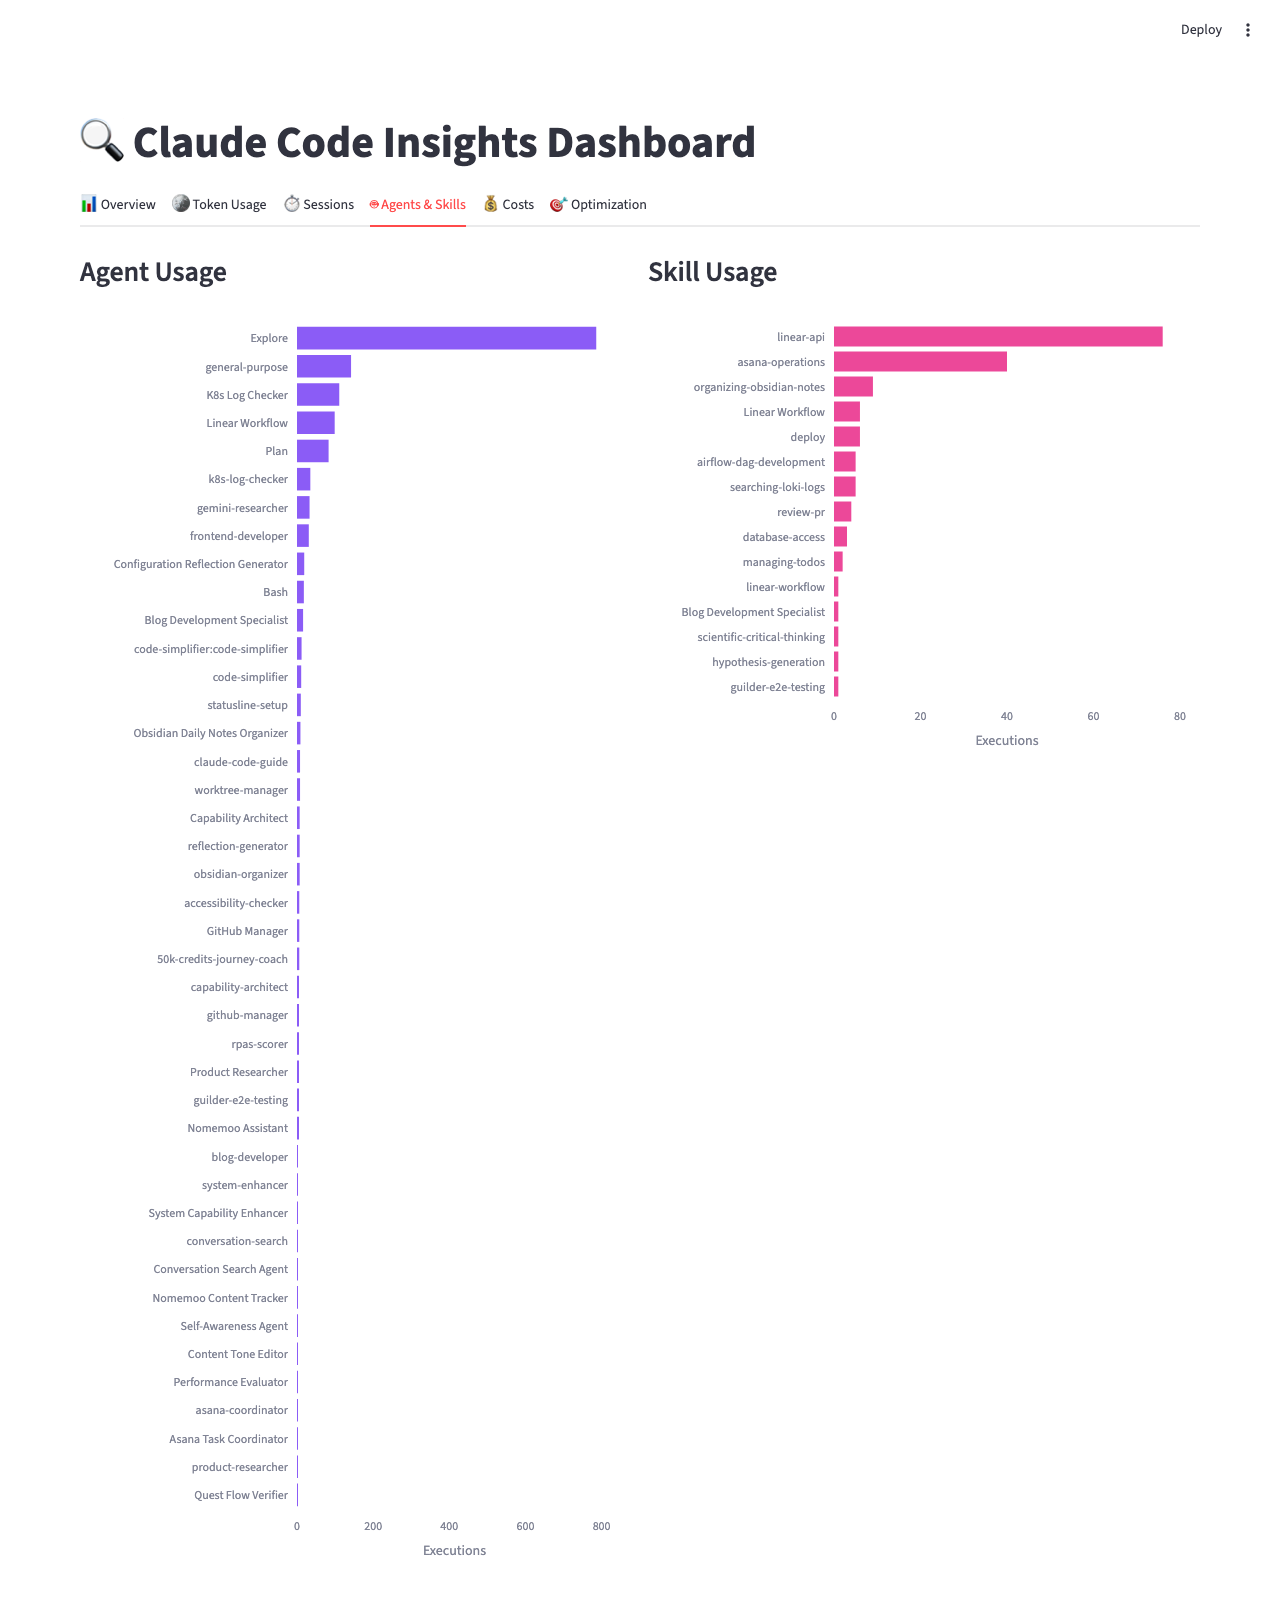
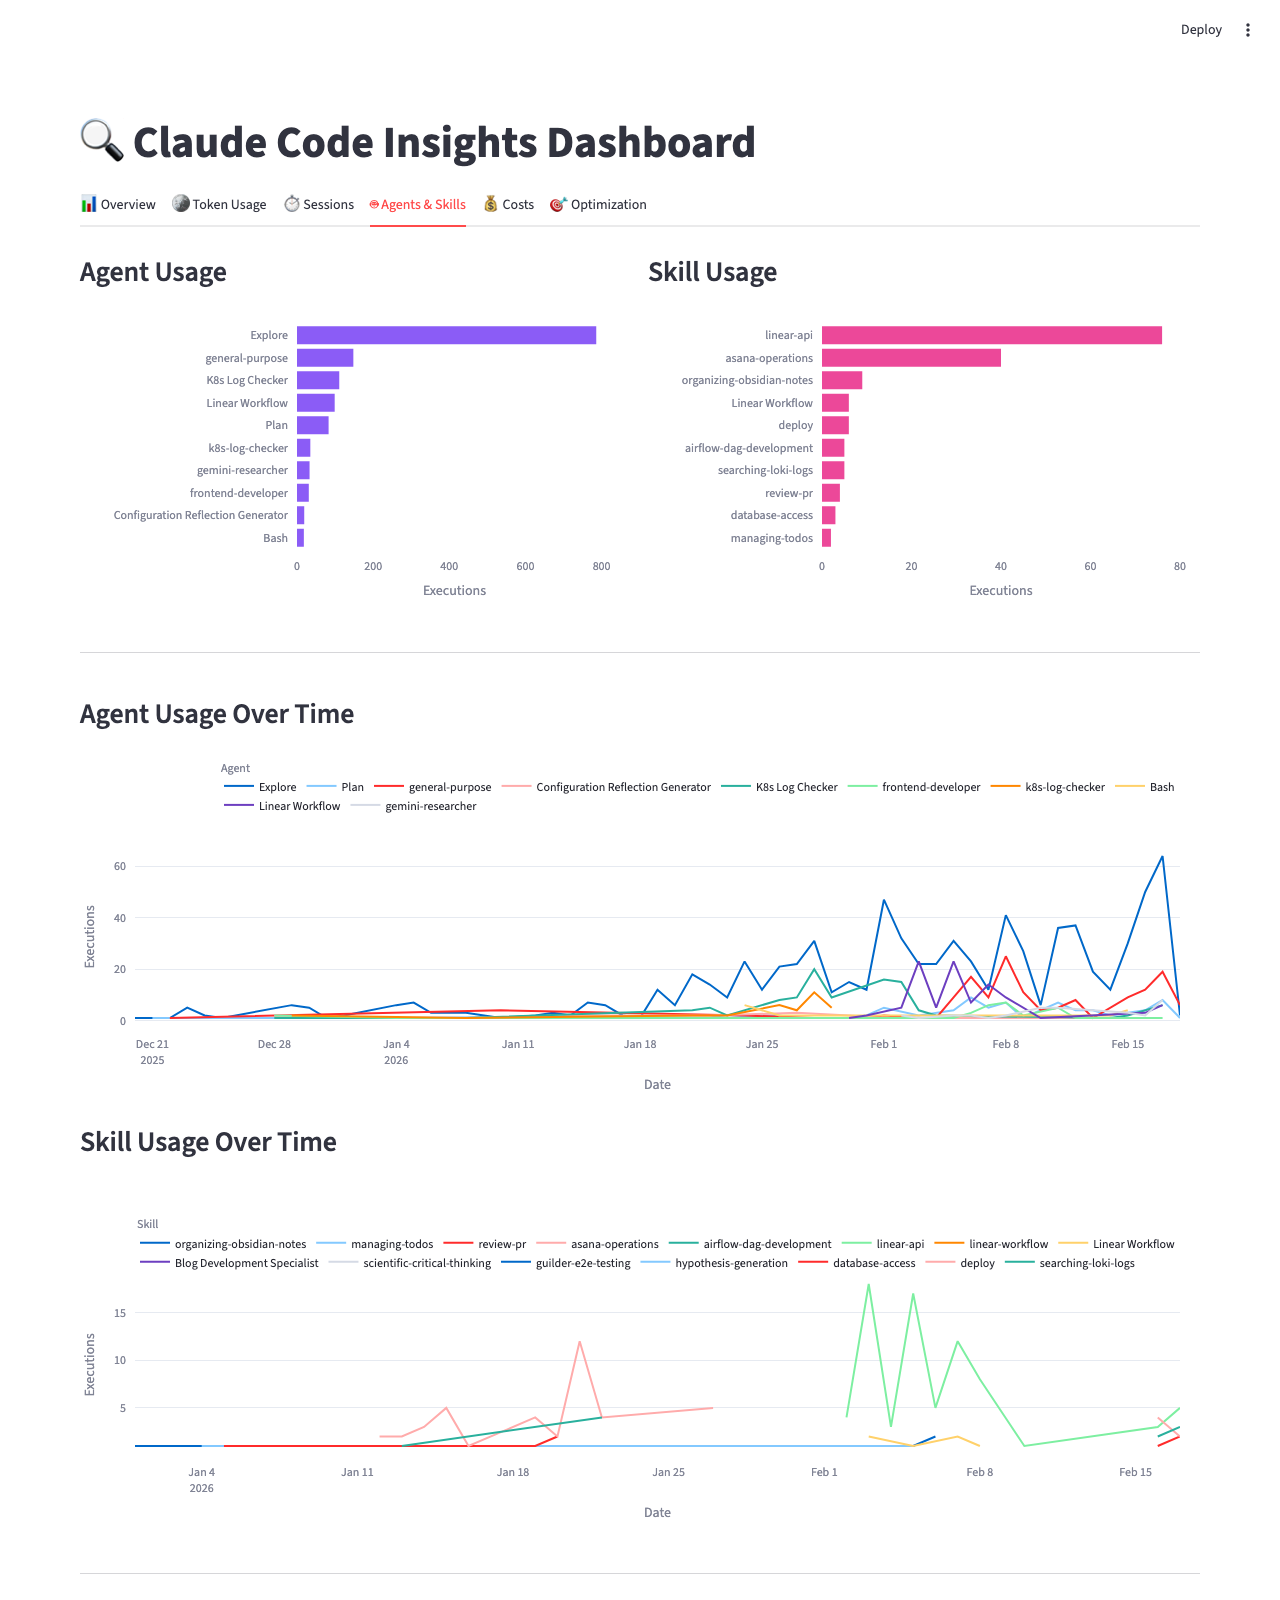
fix: Limit agents & skills charts to top 10 items
Show only the top 10 most-used agents and skills in the bar charts
instead of the full list. Retake screenshot.

diff --git a/src/claude_insights/dashboard/layouts/agents_skills.py b/src/claude_insights/dashboard/layouts/agents_skills.py
@@ -1,12 +1,14 @@
-"""Agents & Skills tab: usage frequency, trends over time."""
+"""Agents & Skills tab: usage frequency, trends over time, unmapped components."""
 
 from __future__ import annotations
+
+from collections import defaultdict
 
 import streamlit as st
 import plotly.express as px
 import pandas as pd
 
-from claude_insights.models.schemas import AgentExecution, SkillExecution
+from claude_insights.models.schemas import AgentExecution, AgentInfo, SkillExecution, SkillInfo
 from claude_insights.analytics.aggregators.usage_aggregator import (
     agent_usage_counts,
     skill_usage_counts,
@@ -15,25 +17,35 @@ from claude_insights.analytics.aggregators.usage_aggregator import (
 )
 
 
-def render(agent_execs: list[AgentExecution], skill_execs: list[SkillExecution]):
+def render(
+    agent_execs: list[AgentExecution],
+    skill_execs: list[SkillExecution],
+    agent_definitions: list[AgentInfo] | None = None,
+    skill_definitions: list[SkillInfo] | None = None,
+):
     """Render the agents & skills tab."""
     col_a, col_s = st.columns(2)
 
+    agent_counts = agent_usage_counts(agent_execs)
+    skill_counts_map = skill_usage_counts(skill_execs)
+
+    TOP_N = 10
+
     # Agent section
     with col_a:
-        st.subheader("🤖 Agent Usage")
-        counts = agent_usage_counts(agent_execs)
-        if counts:
+        st.subheader("Agent Usage")
+        if agent_counts:
+            top_agents = dict(list(agent_counts.items())[:TOP_N])
             df = pd.DataFrame(
-                {"agent": list(counts.keys()), "executions": list(counts.values())}
+                {"agent": list(top_agents.keys()), "executions": list(top_agents.values())}
             )
             fig = px.bar(
                 df, x="executions", y="agent", orientation="h",
                 color_discrete_sequence=["#8b5cf6"],
             )
             fig.update_layout(
-                height=max(200, len(counts) * 30),
-                margin=dict(l=0, r=0, t=10, b=0),
+                height=max(200, len(top_agents) * 30),
+                margin=dict(l=20, r=20, t=20, b=0),
                 yaxis={"categoryorder": "total ascending"},
                 xaxis_title="Executions", yaxis_title="",
             )
@@ -43,19 +55,19 @@ def render(agent_execs: list[AgentExecution], skill_execs: list[SkillExecution])
 
     # Skill section
     with col_s:
-        st.subheader("⚡ Skill Usage")
-        counts = skill_usage_counts(skill_execs)
-        if counts:
+        st.subheader("Skill Usage")
+        if skill_counts_map:
+            top_skills = dict(list(skill_counts_map.items())[:TOP_N])
             df = pd.DataFrame(
-                {"skill": list(counts.keys()), "executions": list(counts.values())}
+                {"skill": list(top_skills.keys()), "executions": list(top_skills.values())}
             )
             fig = px.bar(
                 df, x="executions", y="skill", orientation="h",
                 color_discrete_sequence=["#ec4899"],
             )
             fig.update_layout(
-                height=max(200, len(counts) * 30),
-                margin=dict(l=0, r=0, t=10, b=0),
+                height=max(200, len(top_skills) * 30),
+                margin=dict(l=20, r=20, t=20, b=0),
                 yaxis={"categoryorder": "total ascending"},
                 xaxis_title="Executions", yaxis_title="",
             )
@@ -78,8 +90,8 @@ def render(agent_execs: list[AgentExecution], skill_execs: list[SkillExecution])
                 labels={"date": "Date", "count": "Executions", "agent": "Agent"},
             )
             fig.update_layout(
-                height=350, margin=dict(l=0, r=0, t=10, b=0),
-                legend=dict(orientation="h", yanchor="bottom", y=1.02, xanchor="right", x=1),
+                height=350, margin=dict(l=20, r=20, t=100, b=0),
+                legend=dict(orientation="h", yanchor="bottom", y=1.15, xanchor="right", x=1),
             )
             st.plotly_chart(fig, use_container_width=True)
 
@@ -91,7 +103,140 @@ def render(agent_execs: list[AgentExecution], skill_execs: list[SkillExecution])
             labels={"date": "Date", "count": "Executions", "skill": "Skill"},
         )
         fig.update_layout(
-            height=350, margin=dict(l=0, r=0, t=10, b=0),
-            legend=dict(orientation="h", yanchor="bottom", y=1.02, xanchor="right", x=1),
+            height=350, margin=dict(l=20, r=20, t=100, b=0),
+            legend=dict(orientation="h", yanchor="bottom", y=1.15, xanchor="right", x=1),
         )
         st.plotly_chart(fig, use_container_width=True)
+
+    # Unmapped agents/skills sections
+    st.divider()
+    _render_unmapped_agents(agent_execs, agent_definitions or [])
+    _render_unmapped_skills(skill_execs, skill_definitions or [])
+
+
+def _render_unmapped_agents(
+    agent_execs: list[AgentExecution],
+    agent_definitions: list[AgentInfo],
+):
+    """Show agents found in logs but not defined in ~/.claude/agents/."""
+    defined_names = {a.name for a in agent_definitions}
+    # Also include built-in agents that don't need definitions
+    builtin_agents = {"Explore", "Plan", "general-purpose", "Bash"}
+
+    # Collect used agent names with their project paths
+    agent_projects: dict[str, set[str]] = defaultdict(set)
+    for ex in agent_execs:
+        name = ex.agent_type or ex.agent
+        if name:
+            # session_id sometimes encodes the project context
+            project = _extract_project(ex.session_id)
+            if project:
+                agent_projects[name].add(project)
+            else:
+                agent_projects[name].add("(unknown)")
+
+    unmapped = {
+        name: projects
+        for name, projects in agent_projects.items()
+        if name not in defined_names and name not in builtin_agents
+    }
+
+    st.subheader("Unmapped Agents")
+    if unmapped:
+        st.warning(
+            f"**{len(unmapped)}** agents found in conversation logs "
+            f"but not defined in `~/.claude/agents/`"
+        )
+        rows = []
+        for name, projects in sorted(unmapped.items()):
+            # Find executions for this agent
+            matching_execs = [
+                ex for ex in agent_execs if (ex.agent_type or ex.agent) == name
+            ]
+            count = len(matching_execs)
+
+            # Find last used timestamp
+            last_used = None
+            if matching_execs:
+                timestamps = [ex.timestamp for ex in matching_execs if ex.timestamp]
+                if timestamps:
+                    # timestamps are already strings in ISO format
+                    last_used = max(timestamps)
+
+            rows.append({
+                "Agent": name,
+                "Executions": count,
+                "Last Used": last_used[:10] if last_used else "Unknown",  # Extract YYYY-MM-DD from ISO string
+                "Projects": ", ".join(sorted(projects)[:3]),
+            })
+        st.dataframe(pd.DataFrame(rows), use_container_width=True, hide_index=True)
+    else:
+        st.success("All used agents have corresponding definitions (or are built-in)")
+
+
+def _render_unmapped_skills(
+    skill_execs: list[SkillExecution],
+    skill_definitions: list[SkillInfo],
+):
+    """Show skills found in logs but not defined in ~/.claude/skills/."""
+    defined_names = {s.name for s in skill_definitions}
+
+    skill_projects: dict[str, set[str]] = defaultdict(set)
+    for ex in skill_execs:
+        name = ex.skill_name or ex.skill
+        if name:
+            project = _extract_project(ex.session_id)
+            if project:
+                skill_projects[name].add(project)
+            else:
+                skill_projects[name].add("(unknown)")
+
+    unmapped = {
+        name: projects
+        for name, projects in skill_projects.items()
+        if name not in defined_names
+    }
+
+    st.subheader("Unmapped Skills")
+    if unmapped:
+        st.warning(
+            f"**{len(unmapped)}** skills found in conversation logs "
+            f"but not defined in `~/.claude/skills/`"
+        )
+        rows = []
+        for name, projects in sorted(unmapped.items()):
+            # Find executions for this skill
+            matching_execs = [
+                ex for ex in skill_execs if (ex.skill_name or ex.skill) == name
+            ]
+            count = len(matching_execs)
+
+            # Find last used timestamp
+            last_used = None
+            if matching_execs:
+                timestamps = [ex.timestamp for ex in matching_execs if ex.timestamp]
+                if timestamps:
+                    # timestamps are already strings in ISO format
+                    last_used = max(timestamps)
+
+            rows.append({
+                "Skill": name,
+                "Executions": count,
+                "Last Used": last_used[:10] if last_used else "Unknown",  # Extract YYYY-MM-DD from ISO string
+                "Projects": ", ".join(sorted(projects)[:3]),
+            })
+        st.dataframe(pd.DataFrame(rows), use_container_width=True, hide_index=True)
+    else:
+        st.success("All used skills have corresponding definitions")
+
+
+def _extract_project(session_id: str) -> str:
+    """Try to extract a project name from the session context.
+
+    Session IDs are UUIDs, but execution log entries sometimes carry
+    project info. Returns empty string if not determinable.
+    """
+    # Session IDs are plain UUIDs — we can't extract project from them alone.
+    # This is a best-effort placeholder; the real project mapping comes from
+    # conversation file paths if we have that context.
+    return ""
